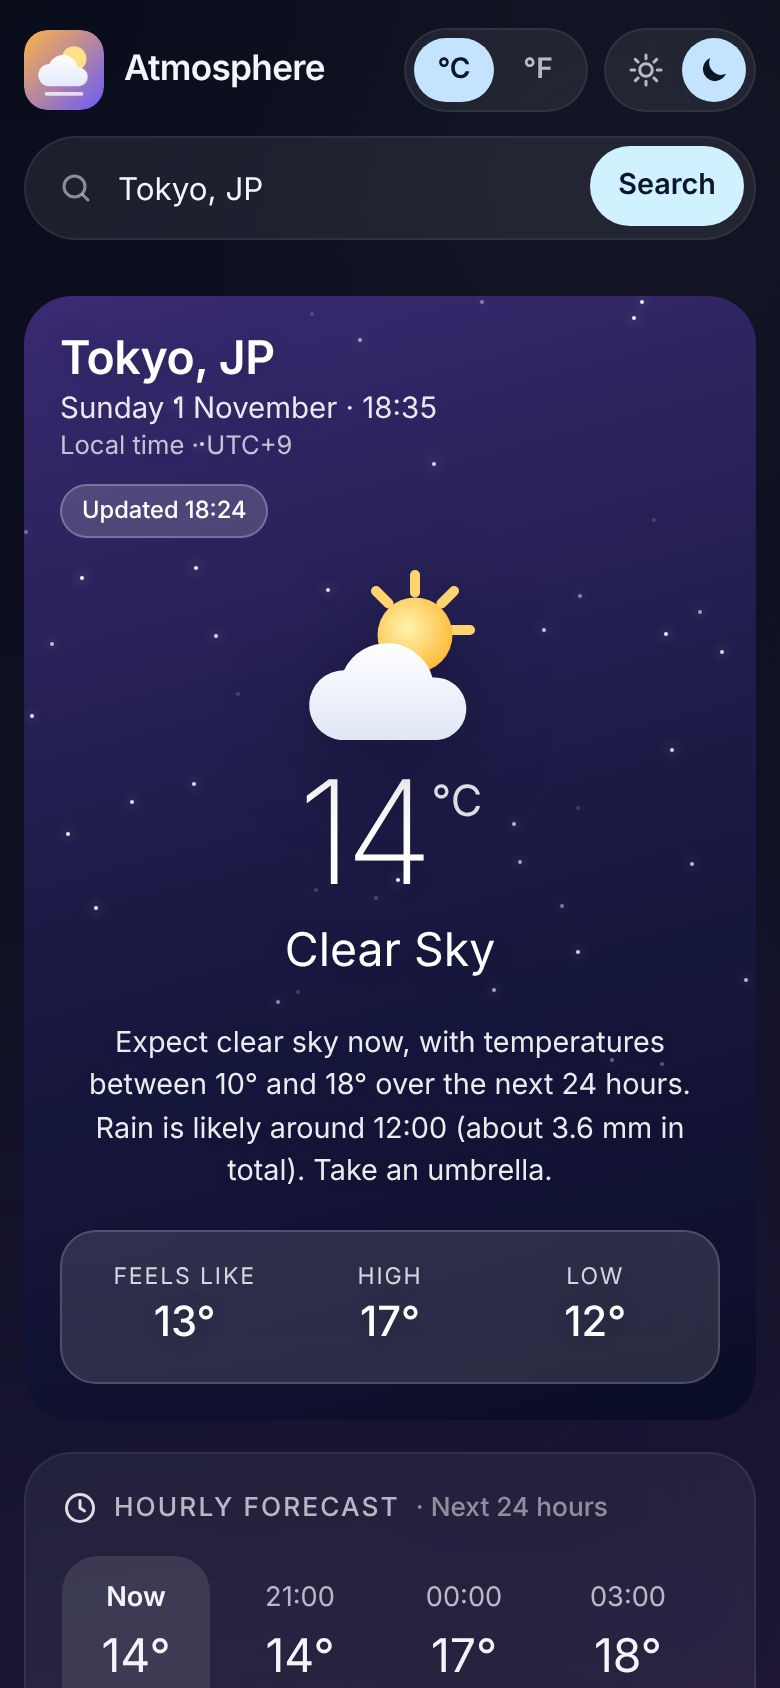
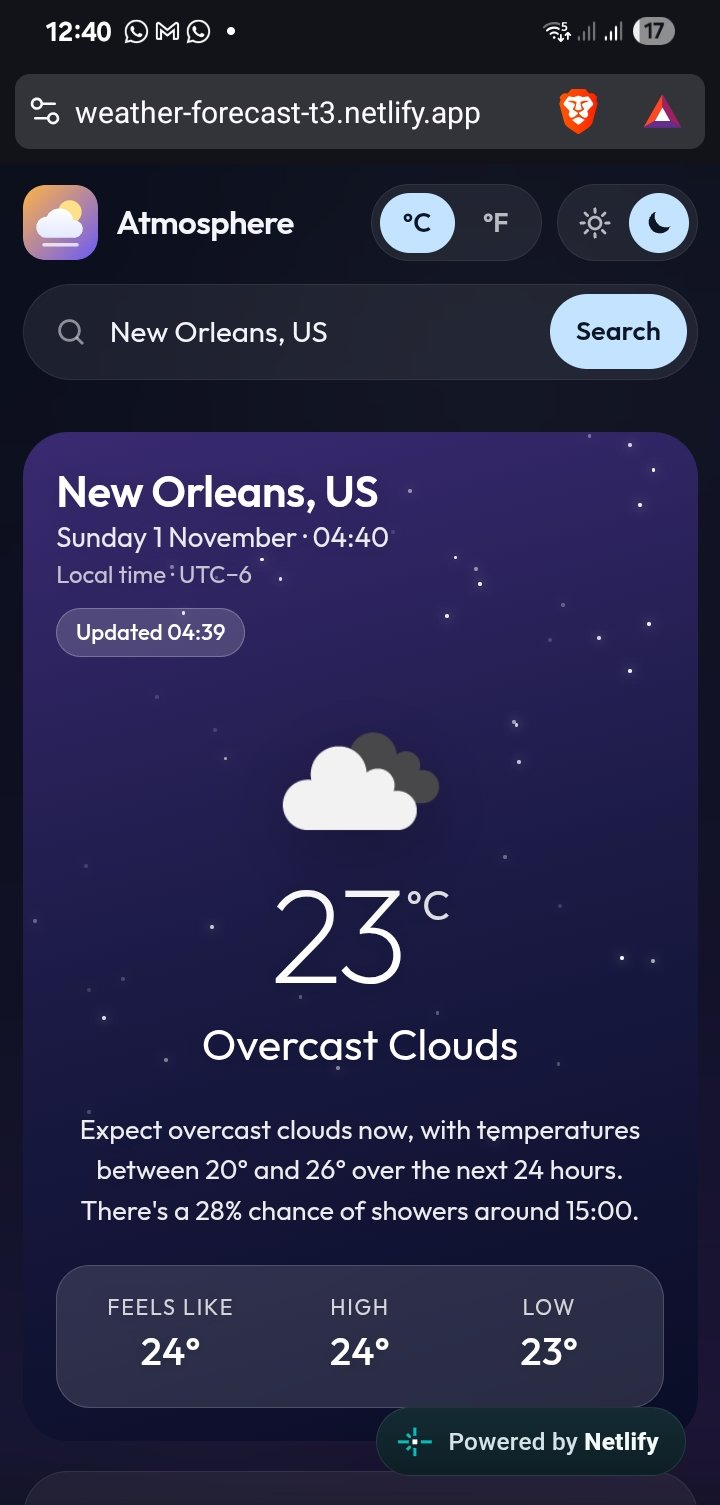
done

diff --git a/Documentation/workTrack/002_deploymentUpdate.md b/Documentation/workTrack/002_deploymentUpdate.md
@@ -1,0 +1,98 @@
+# Work Report 002: Deployment & Live Verification
+
+**Project:** Datheon Task 3, Atmosphere Weather App
+**Repository:** `FreddyDezmal/Datheon-Task-3` (branch `main`)
+**Date:** Sunday, 1 November 2026
+**Follows:** [`001_progressReport.md`](001_progressReport.md)
+**Status:** Deployed and confirmed working with live OpenWeatherMap data
+
+---
+
+## 1. Summary
+
+Since report 001, the app has been committed, deployed to Netlify and confirmed working with real OpenWeatherMap data. The README now shows screenshots from the live site instead of mock-data images, and the leftover files flagged in report 001 have been removed.
+
+**Live site:** <https://weather-forecast-t3.netlify.app>
+
+---
+
+## 2. What was done
+
+| Step | Outcome |
+|---|---|
+| Committed the build | Commit `ba9c235`, "working system" (11:46) |
+| Deployed to Netlify | Site live at `weather-forecast-t3.netlify.app` |
+| Verified against the live API | Real searches return current conditions, hourly data and the five-day forecast (see §3) |
+| Replaced README screenshots | Three live screenshots replace the four mock-data images |
+| Added a live demo link | Near the top of `README.md` |
+| Updated README wording | Removed the "Live API not verified" limitation; the testing section now records the live run |
+| Cleanup from report 001 | Deleted the empty `README` file and the unused screenshots `desktop-snow.jpg`, `desktop-rain.jpg` and `desktop-snow-light.jpg` |
+
+---
+
+## 3. Live verification
+
+Three cities were captured from the deployed site:
+
+| Screenshot | City | What it confirms |
+|---|---|---|
+| `desktop-clear.jpg` | Paris, FR (UTC+1) | Clear-sky theme, local time and UTC offset, hourly strip from "Now", five distinct forecast days, "Partial day" label on the fifth day, light mode |
+| `desktop-clouds.jpg` | Belokurikha, RU (UTC+7) | Cloudy theme, mixed conditions including snow, precipitation chance up to 100%, a summary naming the rain time and amount ("Rain is likely around 16:00 (about 1.0 mm in total)"), negative temperatures |
+| `mobile-night.jpg` | New Orleans, US (UTC−6) | Night theme with star particles, dark mode, mobile layout, a summary giving a shower probability ("28% chance of showers around 15:00") |
+
+Together these confirm the outstanding criterion from report 001: **real weather data is successfully retrieved.** They also show that time zones on both sides of UTC are handled correctly, that the city search works for a small town as well as major cities, and that the theme, unit and mode controls work in production.
+
+---
+
+## 4. Updated acceptance criteria
+
+Every criterion from `Documentation/Prompts/001_baselineStart.md` is now met:
+
+| Criterion | Status |
+|---|---|
+| Users can search global cities | ✅ Confirmed live (Paris, Belokurikha, New Orleans) |
+| Real weather data is retrieved | ✅ **Confirmed live**; this was ⚠ in report 001 |
+| Conditions and icons update dynamically | ✅ Clear, cloudy and night themes seen live |
+| Current weather metrics display correctly | ✅ |
+| Five forecast days displayed | ✅ Five distinct days visible live |
+| Invalid searches handled gracefully | ✅ Covered by automated tests |
+| Loading states work | ✅ |
+| Network and API errors handled | ✅ Covered by automated tests |
+| Works on desktop, tablet and mobile | ✅ Desktop and a real phone confirmed live |
+| Code organised and documented | ✅ |
+| API credentials not exposed in the repo | ✅ `.env` and `js/env.js` are not tracked by git |
+
+---
+
+## 5. Repository state at time of writing
+
+These changes are ready in the working copy but **not yet committed**:
+
+```
+ D README
+ M README.md
+ M docs/screenshots/desktop-clear.jpg
+ M docs/screenshots/mobile-night.jpg
+?? docs/screenshots/desktop-clouds.jpg
+ D docs/screenshots/desktop-rain.jpg
+ D docs/screenshots/desktop-snow-light.jpg
+?? Documentation/workTrack/002_deploymentUpdate.md
+```
+
+Suggested commit:
+
+```bash
+git add -A
+git commit -m "Add live screenshots, demo link and deployment report; remove stale files"
+git push origin main
+```
+
+Netlify redeploys automatically after the push, if the site is connected to the GitHub repository.
+
+---
+
+## 6. Remaining notes
+
+- **Netlify badge:** the "Powered by Netlify" badge is partly visible in the two desktop screenshots. It's cosmetic; retake the shots after dismissing the badge if you want cleaner images.
+- **Partial fifth day:** this is still expected behaviour. The free forecast covers about 120 hours, and the day is labelled in the UI.
+- **API key exposure: confirmed safe.** The deployed `js/env.js` contains an empty `OPENWEATHER_API_KEY` and `API_PROXY_URL: "/.netlify/functions/owm"`. The site therefore runs in proxy mode: the key stays in Netlify's server-side environment variables and never reaches visitors' browsers.

diff --git a/README.md b/README.md
@@ -2,6 +2,8 @@
 
 A real-time weather dashboard built with **HTML5, CSS3 and vanilla JavaScript (ES6+)**. Search any city in the world for its live conditions and a five-day forecast. Data comes from the [OpenWeatherMap](https://openweathermap.org/) REST API.
 
+**Live demo:** <https://weather-forecast-t3.netlify.app>
+
 No frameworks and no build step. The browser code has no runtime dependencies. Node.js is used only for the optional dev server, the unit tests and the deployment helper.
 
 ---
@@ -77,15 +79,19 @@ The layout is a dark (or light) dashboard over a sky that reacts to the weather.
 
 ## Screenshots
 
-> These screenshots were taken during automated testing, with **mocked API responses**, so the values (and the identical weather icons) are sample data. Once your key is configured, replace them with screenshots of live data.
+These screenshots show live OpenWeatherMap data, taken from the deployed site.
 
-| Dark mode · clear | Dark mode · rain |
-|---|---|
-| ![Clear theme](docs/screenshots/desktop-clear.jpg) | ![Rain theme](docs/screenshots/desktop-rain.jpg) |
+**Light mode, clear sky (Paris).** Warm "clear" theme, hourly strip and five-day tiles.
 
-| Light mode · snow | Mobile · night |
-|---|---|
-| ![Snow theme, light mode](docs/screenshots/desktop-snow-light.jpg) | ![Mobile night theme](docs/screenshots/mobile-night.jpg) |
+![Paris, clear sky, light mode](docs/screenshots/desktop-clear.jpg)
+
+**Light mode, overcast (Belokurikha).** Muted "clouds" theme. The forecast includes snow and a 100% chance of precipitation.
+
+![Belokurikha, overcast, light mode](docs/screenshots/desktop-clouds.jpg)
+
+**Mobile, dark mode, night (New Orleans).** Night theme with twinkling stars and the generated 24-hour summary.
+
+<img src="docs/screenshots/mobile-night.jpg" alt="New Orleans at night on mobile, dark mode" width="320">
 
 ---
 
@@ -319,7 +325,7 @@ npm test
 | 11 | Inspect forecast cards | Five different dates |
 | 12 | `git status` / `git ls-files` | `.env` and `js/env.js` are **not** listed |
 
-These scenarios were also automated with Playwright in headless Chromium against mocked API responses, together with checks for every widget: day selection, tabs, tooltips, the °F toggle, light mode and city cards (47/47 checks passed). See [Known limitations](#known-limitations) about live-API verification.
+These scenarios were also automated with Playwright in headless Chromium against mocked API responses, together with checks for every widget: day selection, tabs, tooltips, the °F toggle, light mode and city cards (47/47 checks passed). The app has since been run against the live API on the Netlify deployment; see [Screenshots](#screenshots).
 
 ---
 
@@ -365,7 +371,6 @@ For a portfolio link, use Netlify (above) and keep GitHub for the source code.
 
 ## Known limitations
 
-- **Live API not verified during development.** The sandbox this project was built in could not reach `api.openweathermap.org`. All behaviour was verified against realistic mocked responses, both in unit tests and in a headless-browser run. The request URLs, parameters and response fields follow OpenWeatherMap's documented 2.5 API. Run checks 1–4 above with your own key to confirm live behaviour.
 - **The last forecast day is usually partial.** The free forecast covers about 120 hours from the next 3-hour slot. The fifth day therefore often has only a few slots, so its high/low may understate the true daily range. The card is labelled "Partial day" in that case.
 - **City-name search is ambiguous for duplicate names.** "Springfield" returns OpenWeatherMap's best match. Add a country code (`Springfield, US`) or a state (`Springfield, IL, US`) to narrow it.
 - **"Updated" time** is the observation time OpenWeatherMap reports (`dt`), which can be 10–60 minutes old on the free plan.
